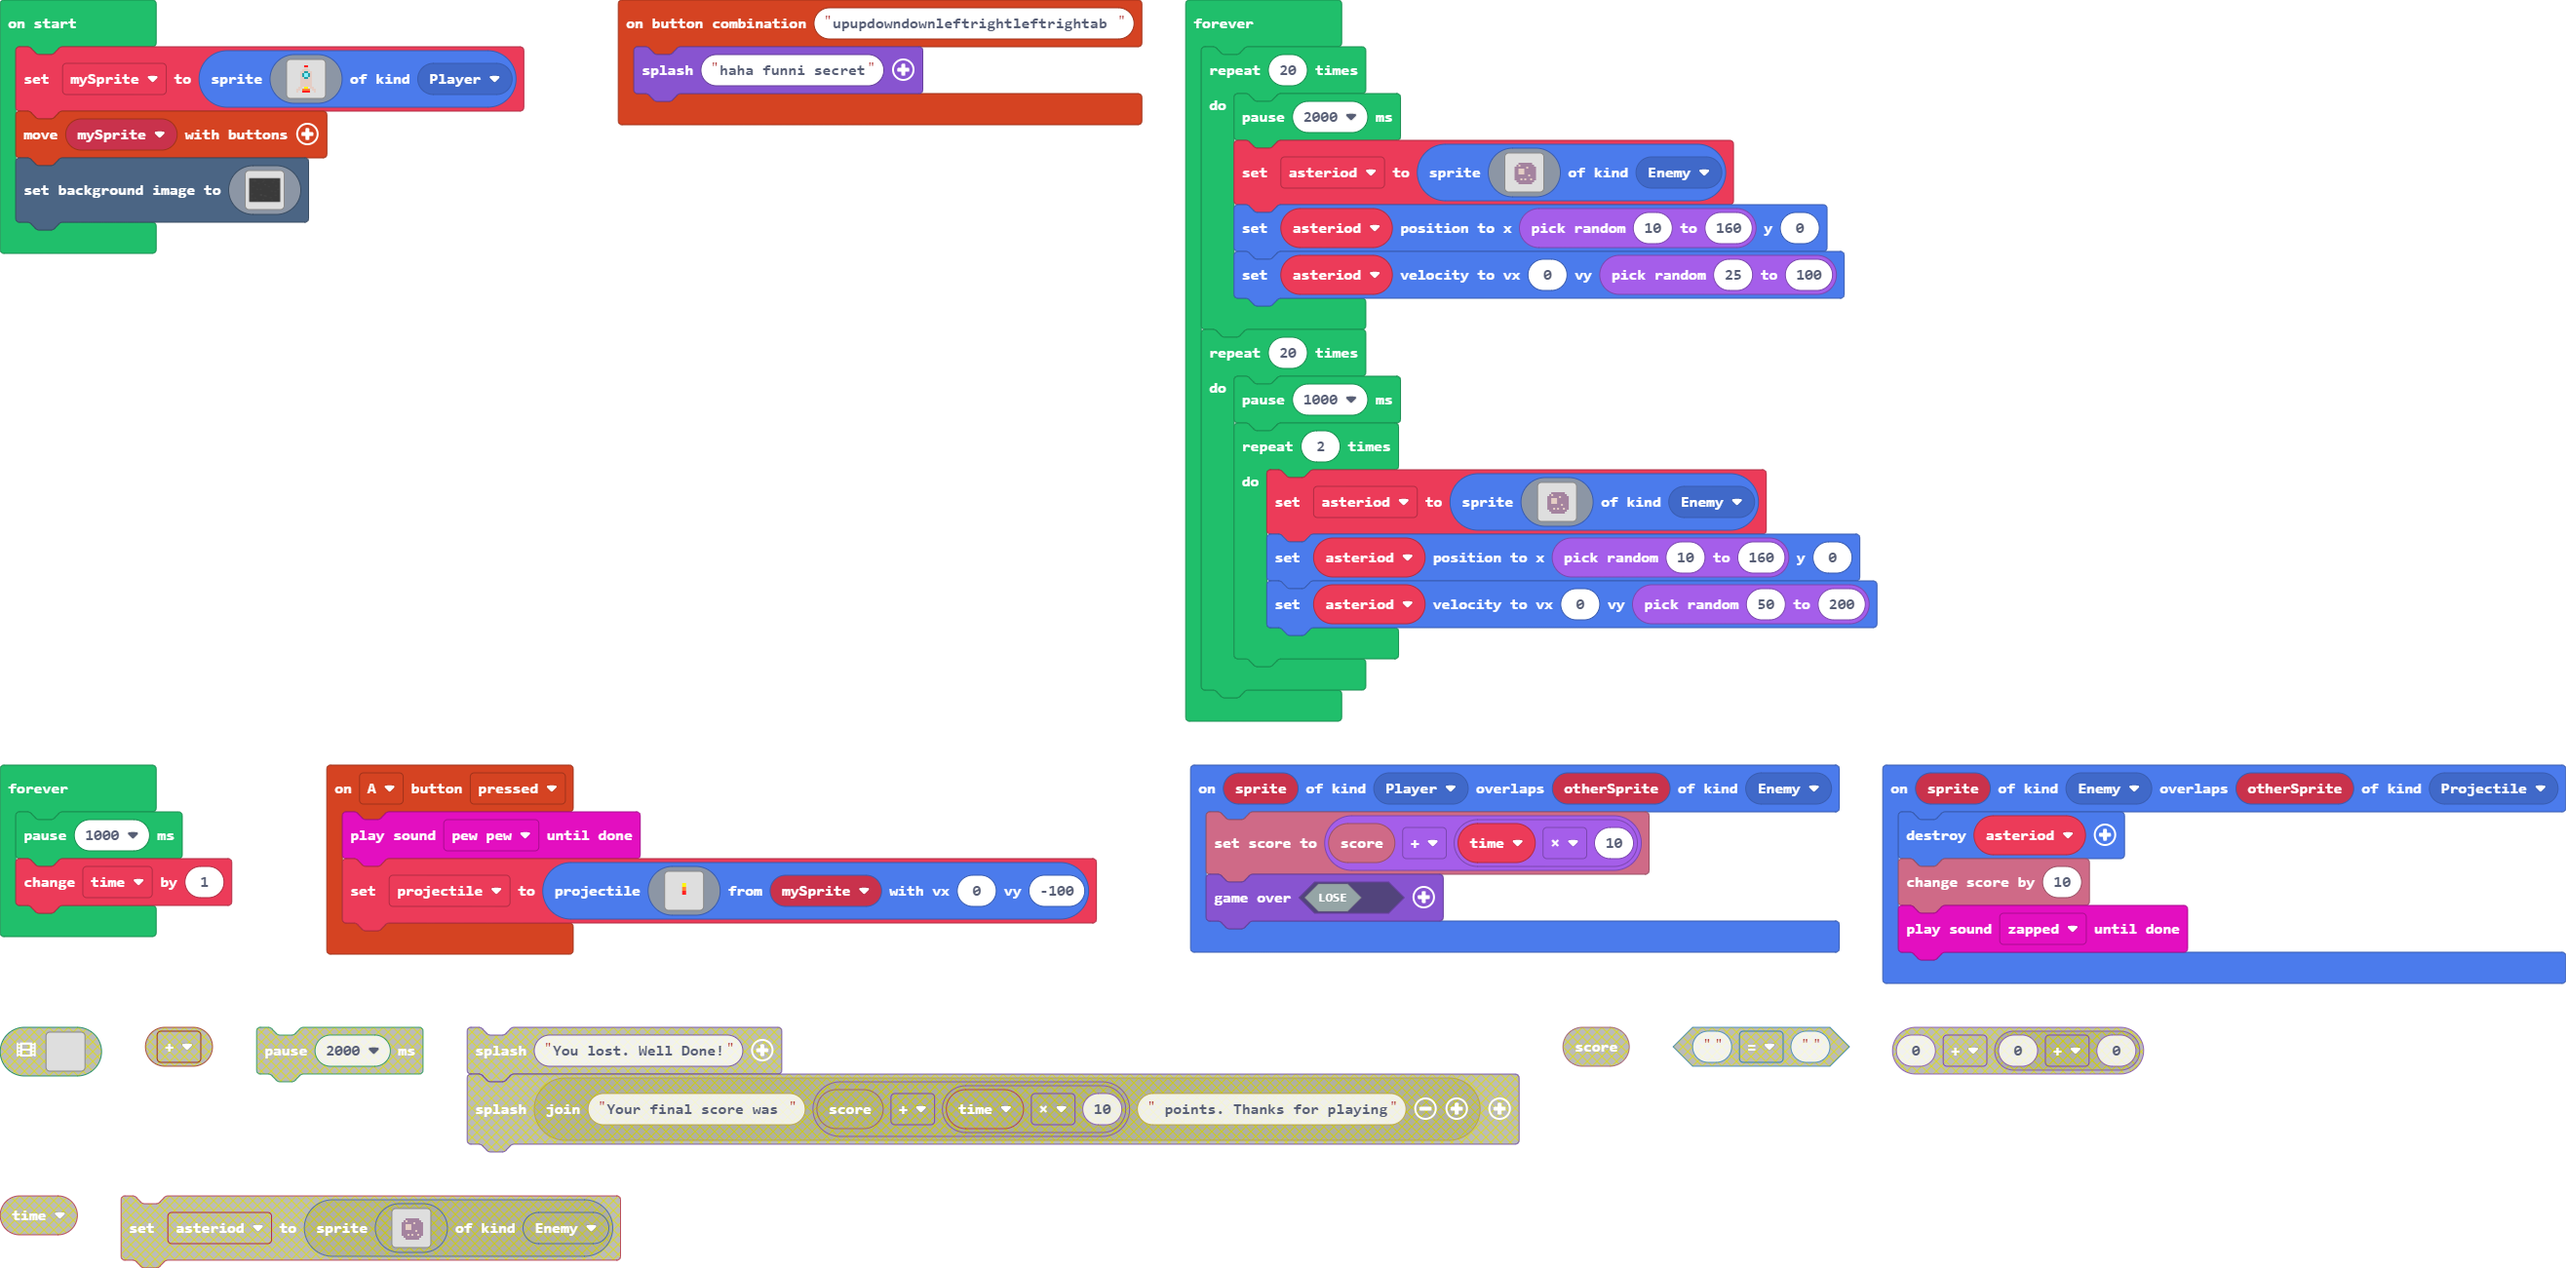
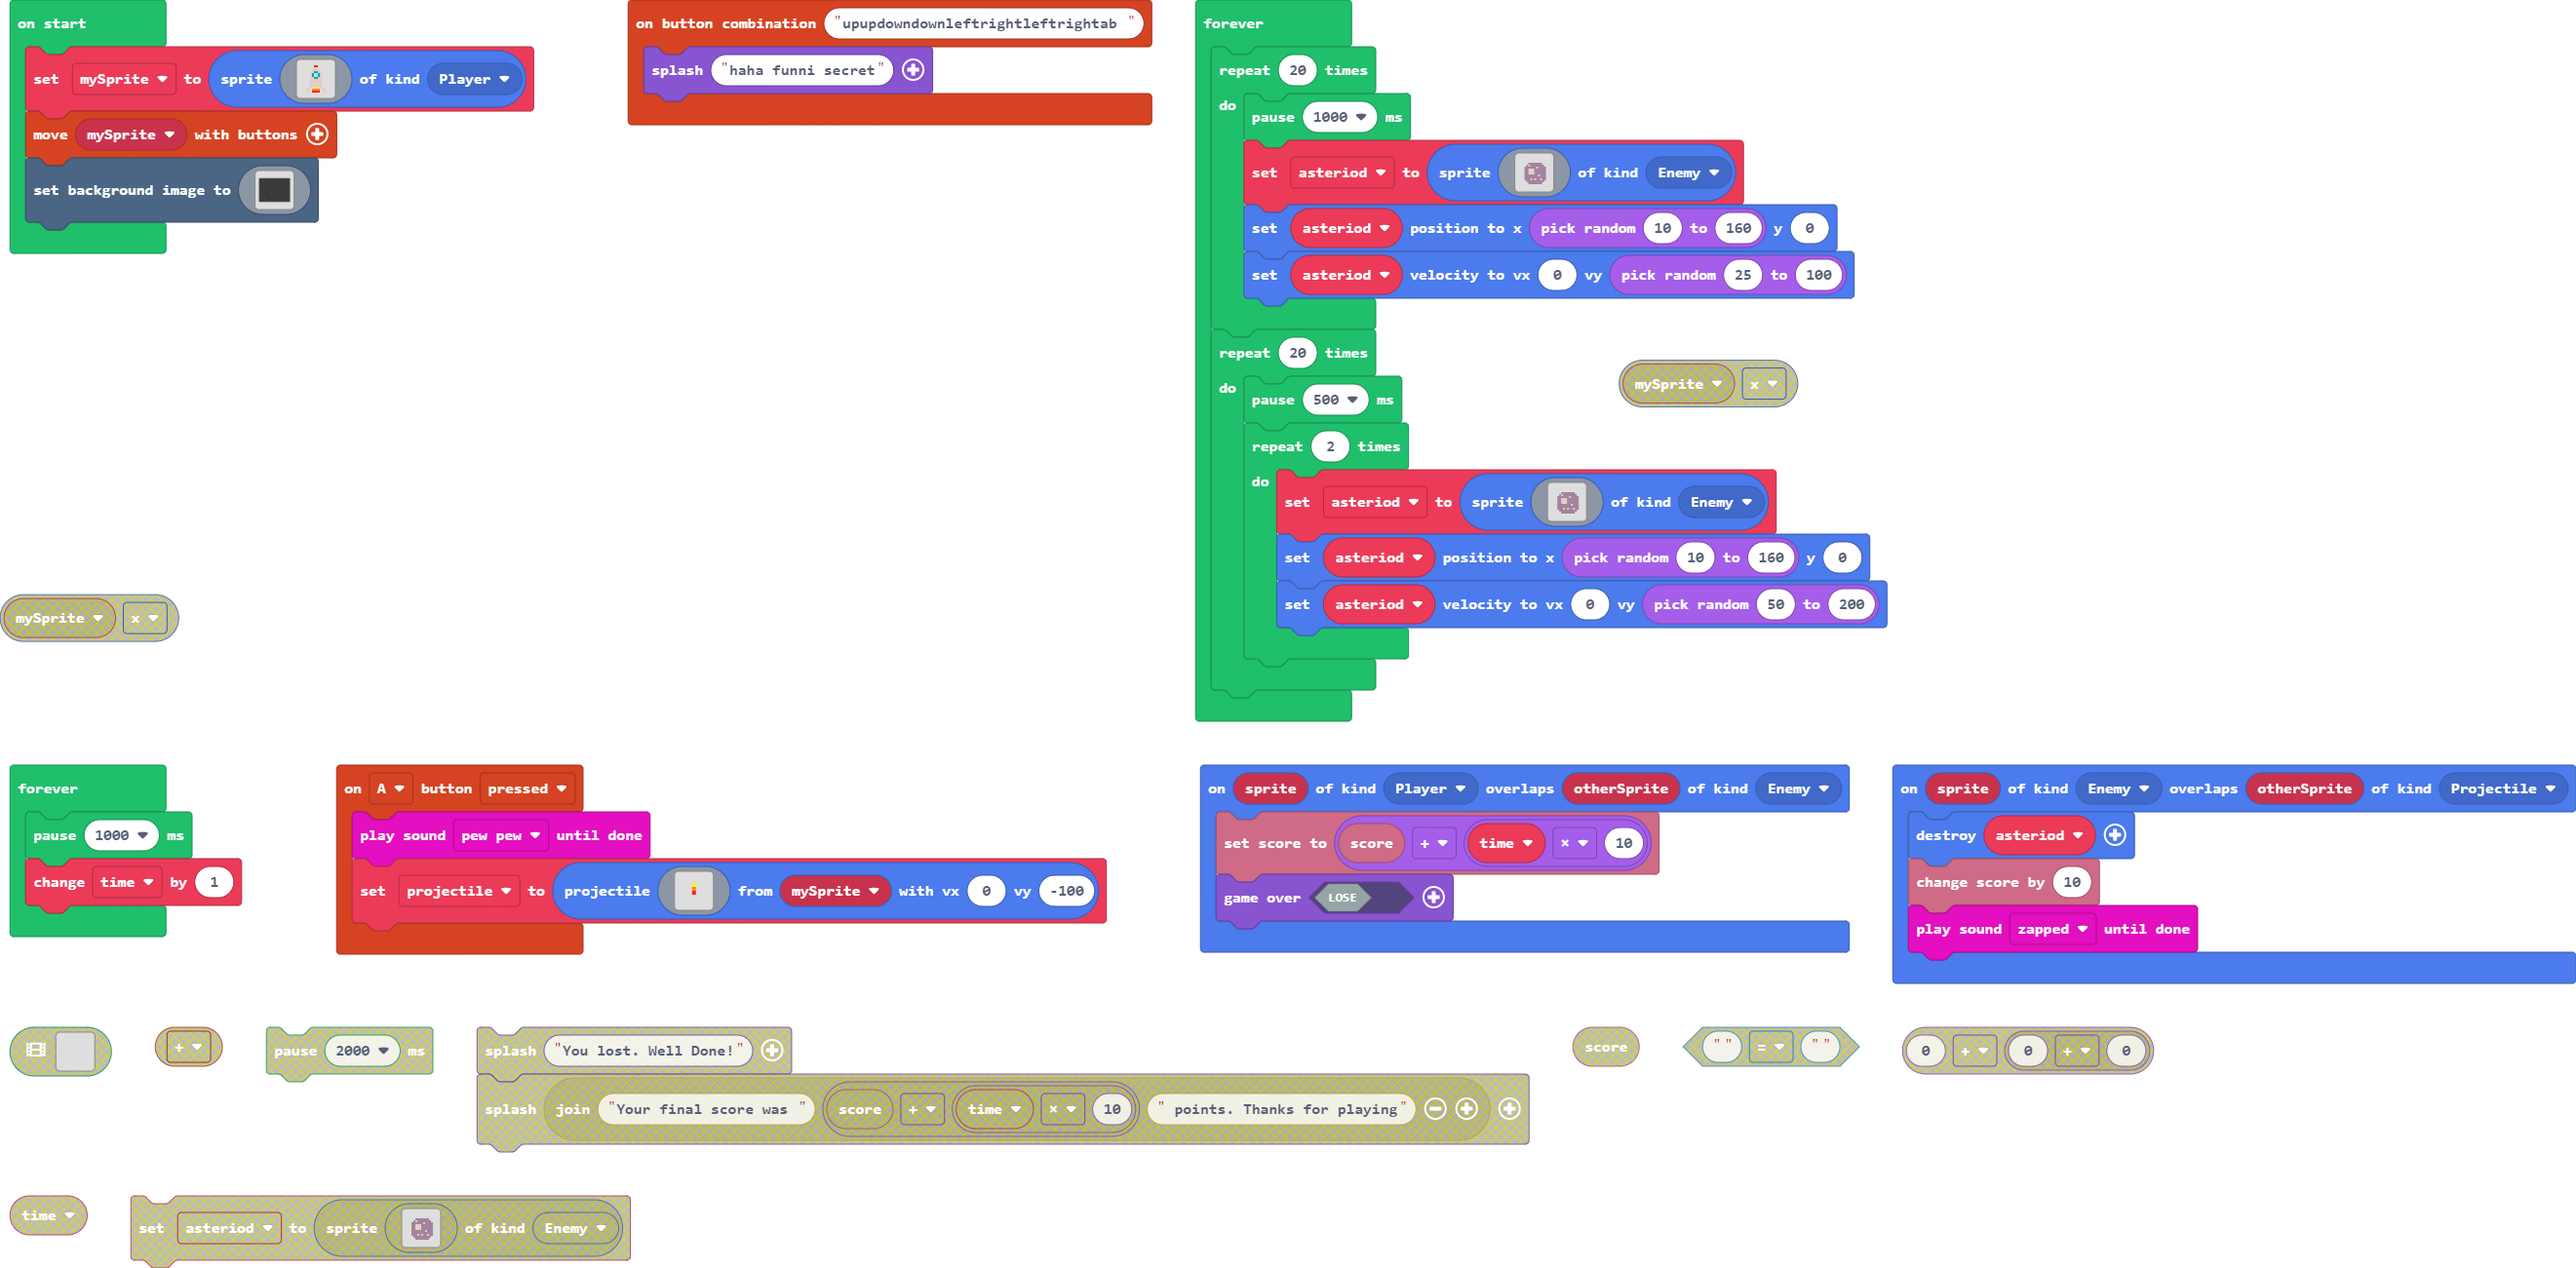
stfu

diff --git a/main.ts b/main.ts
@@ -161,13 +161,13 @@ scene.setBackgroundImage(img`
     `)
 forever(function () {
     for (let index = 0; index < 20; index++) {
-        pause(2000)
+        pause(1000)
         asteriod = sprites.create(assets.image`asteriod`, SpriteKind.Enemy)
         asteriod.setPosition(randint(10, 160), 0)
         asteriod.setVelocity(0, randint(25, 100))
     }
     for (let index = 0; index < 20; index++) {
-        pause(1000)
+        pause(500)
         for (let index = 0; index < 2; index++) {
             asteriod = sprites.create(assets.image`asteriod`, SpriteKind.Enemy)
             asteriod.setPosition(randint(10, 160), 0)
